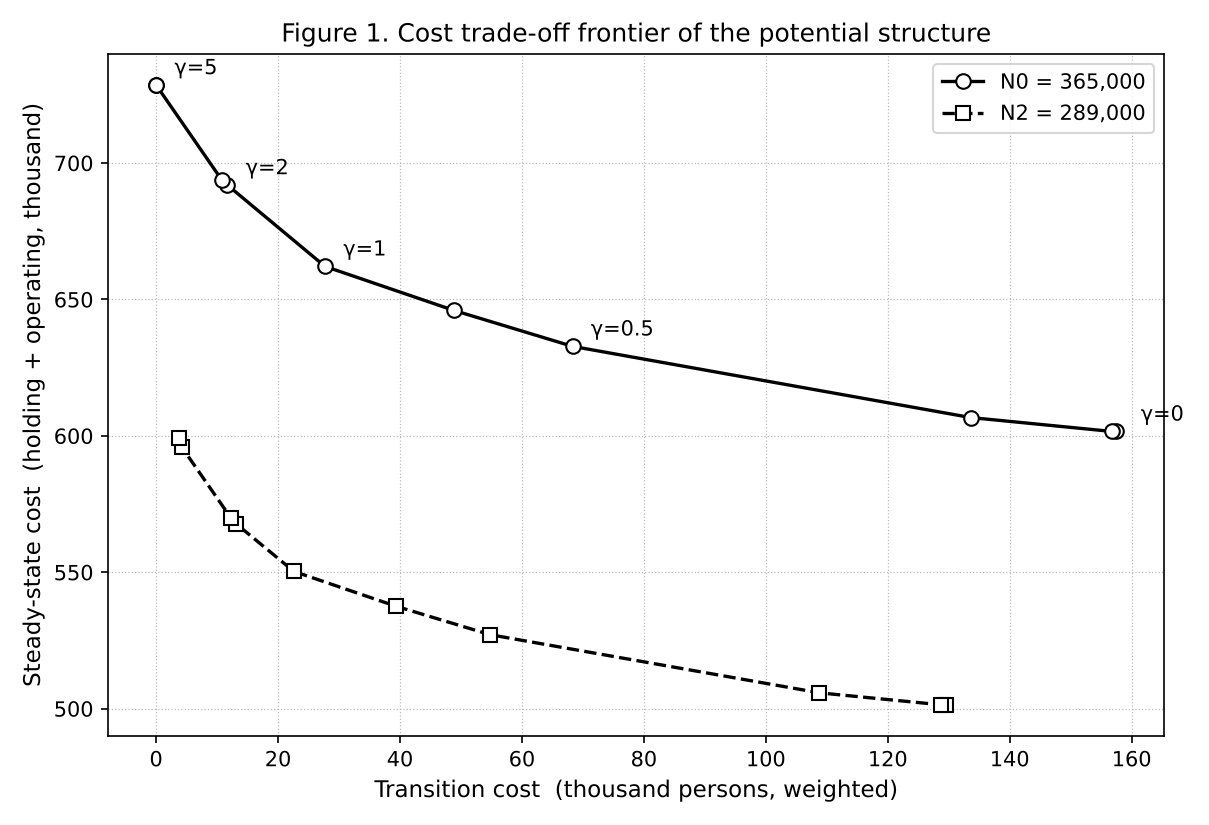
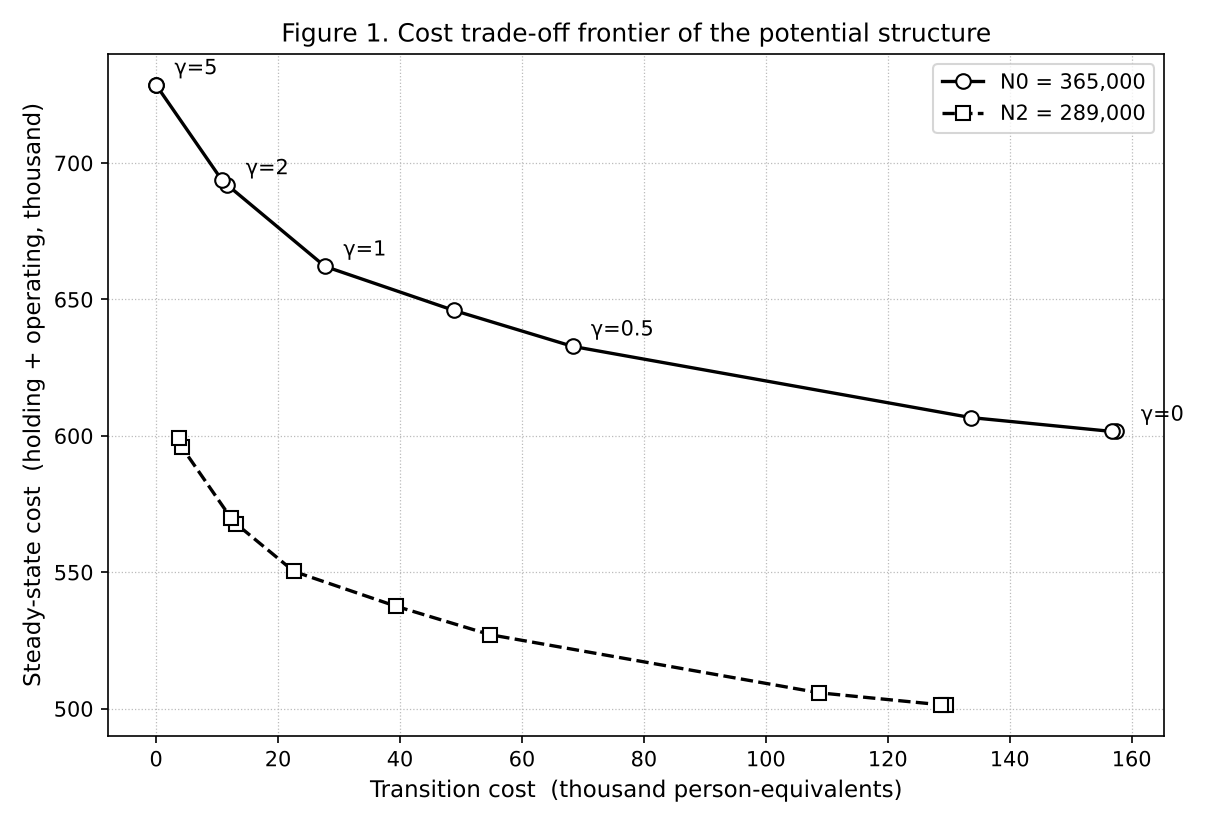
Figures 1-2: axis labels match manuscript v40

Changed region(s): [[0.306, 0.9394, 0.7651, 0.9697]]

diff --git a/replication/analysis/figures.py b/replication/analysis/figures.py
@@ -16,7 +16,7 @@ for N, sty, lab in (('365', dict(color='black', ls='-', marker='o', mfc='white')
 for g, dx, dy in ((0, 4, 4), (0.5, 3, 4), (1, 3, 4), (2, 3, 4), (5, 3, 4)):
     p = [q for q in f1['365'] if q[0] == g][0]
     ax.annotate(f'γ={g:g}', (p[1], p[2]), xytext=(p[1] + dx, p[2] + dy), fontsize=10)
-ax.set_xlabel('Transition cost  (thousand persons, weighted)', fontsize=11)
+ax.set_xlabel('Transition cost  (thousand person-equivalents)', fontsize=11)
 ax.set_ylabel('Steady-state cost  (holding + operating, thousand)', fontsize=11)
 ax.set_title('Figure 1. Cost trade-off frontier of the potential structure', fontsize=12)
 ax.grid(True, ls=':', lw=0.6, color='#BBBBBB'); ax.legend(loc='upper right', fontsize=10)
@@ -35,7 +35,7 @@ for ax, (col, title) in zip(axs, spec):
     ax.grid(True, ls=':', lw=0.6, color='#BBBBBB')
     for s in ('top', 'right'): ax.spines[s].set_visible(False)
 axs[2].legend(loc='upper left', frameon=True, fontsize=8.5)
-axs[2].set_xlabel('Army standing-force size N (thousand)')
+axs[2].set_xlabel('Army size N (thousand)')
 axs[2].set_xlim(368, 194)
 axs[2].set_xticks([360, 340, 320, 300, 289, 260, 240, 219, 197.1])
 axs[2].set_xticklabels(['360', '340', '320', '300', '289\n(N₂)', '260', '240', '219\n(N₃)', '197\n(N₄)'])
